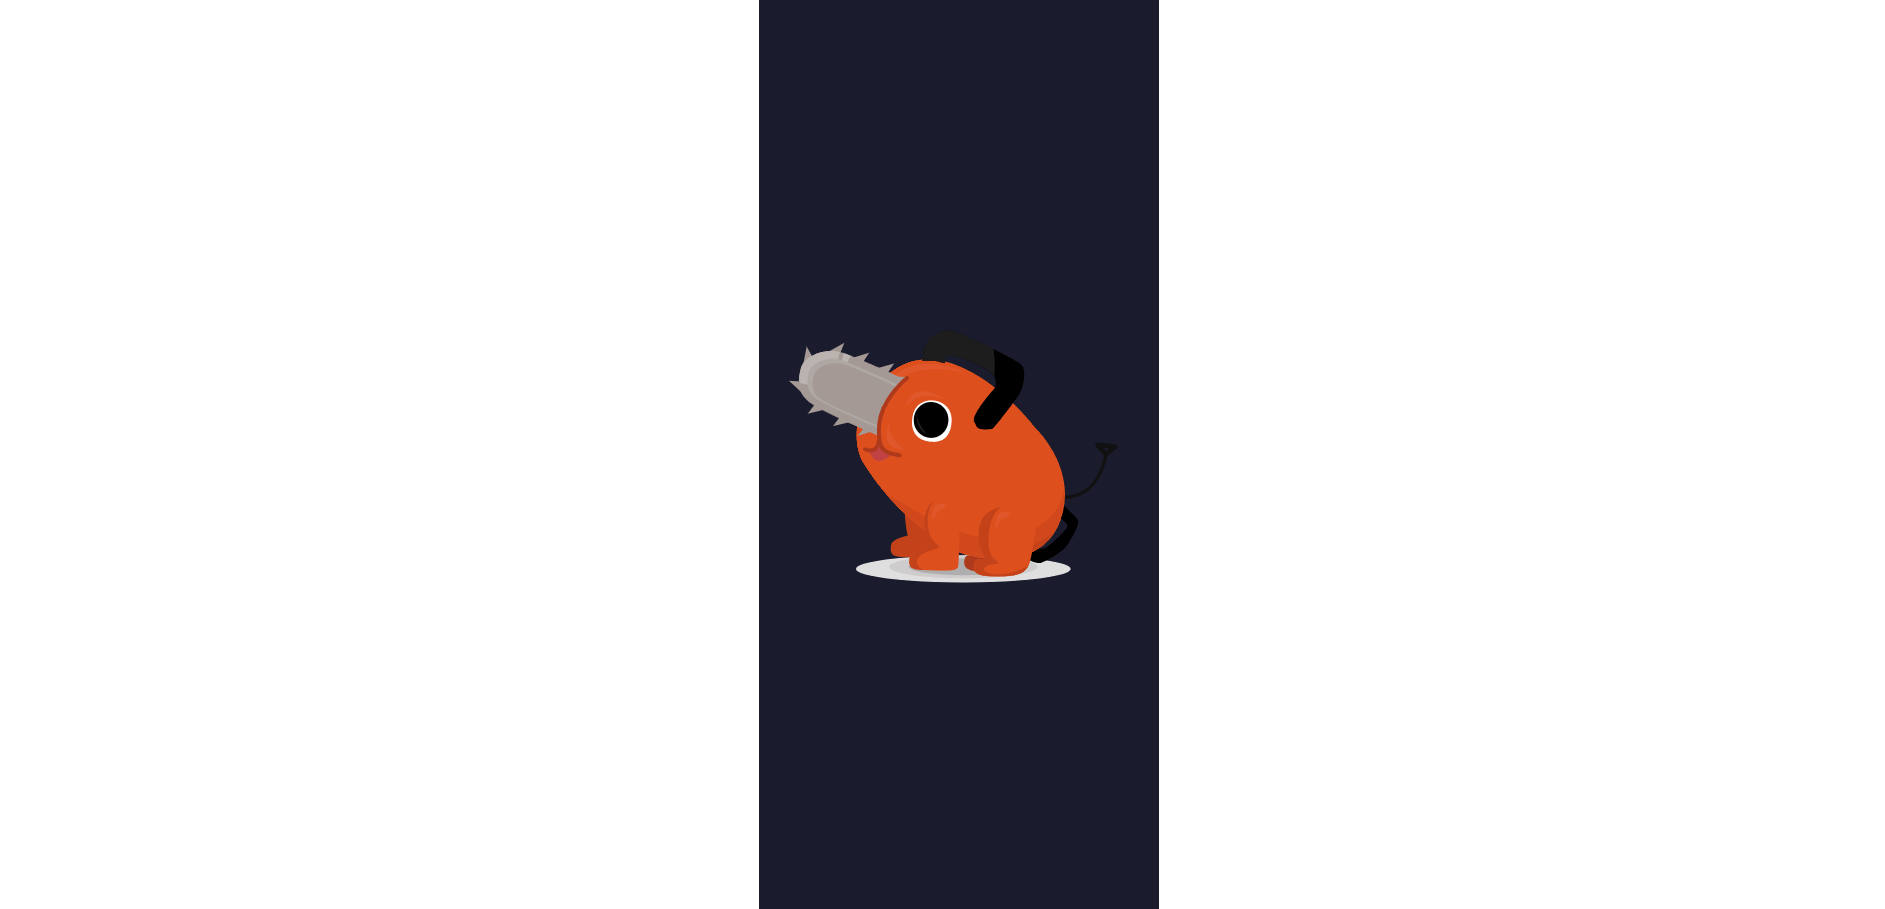
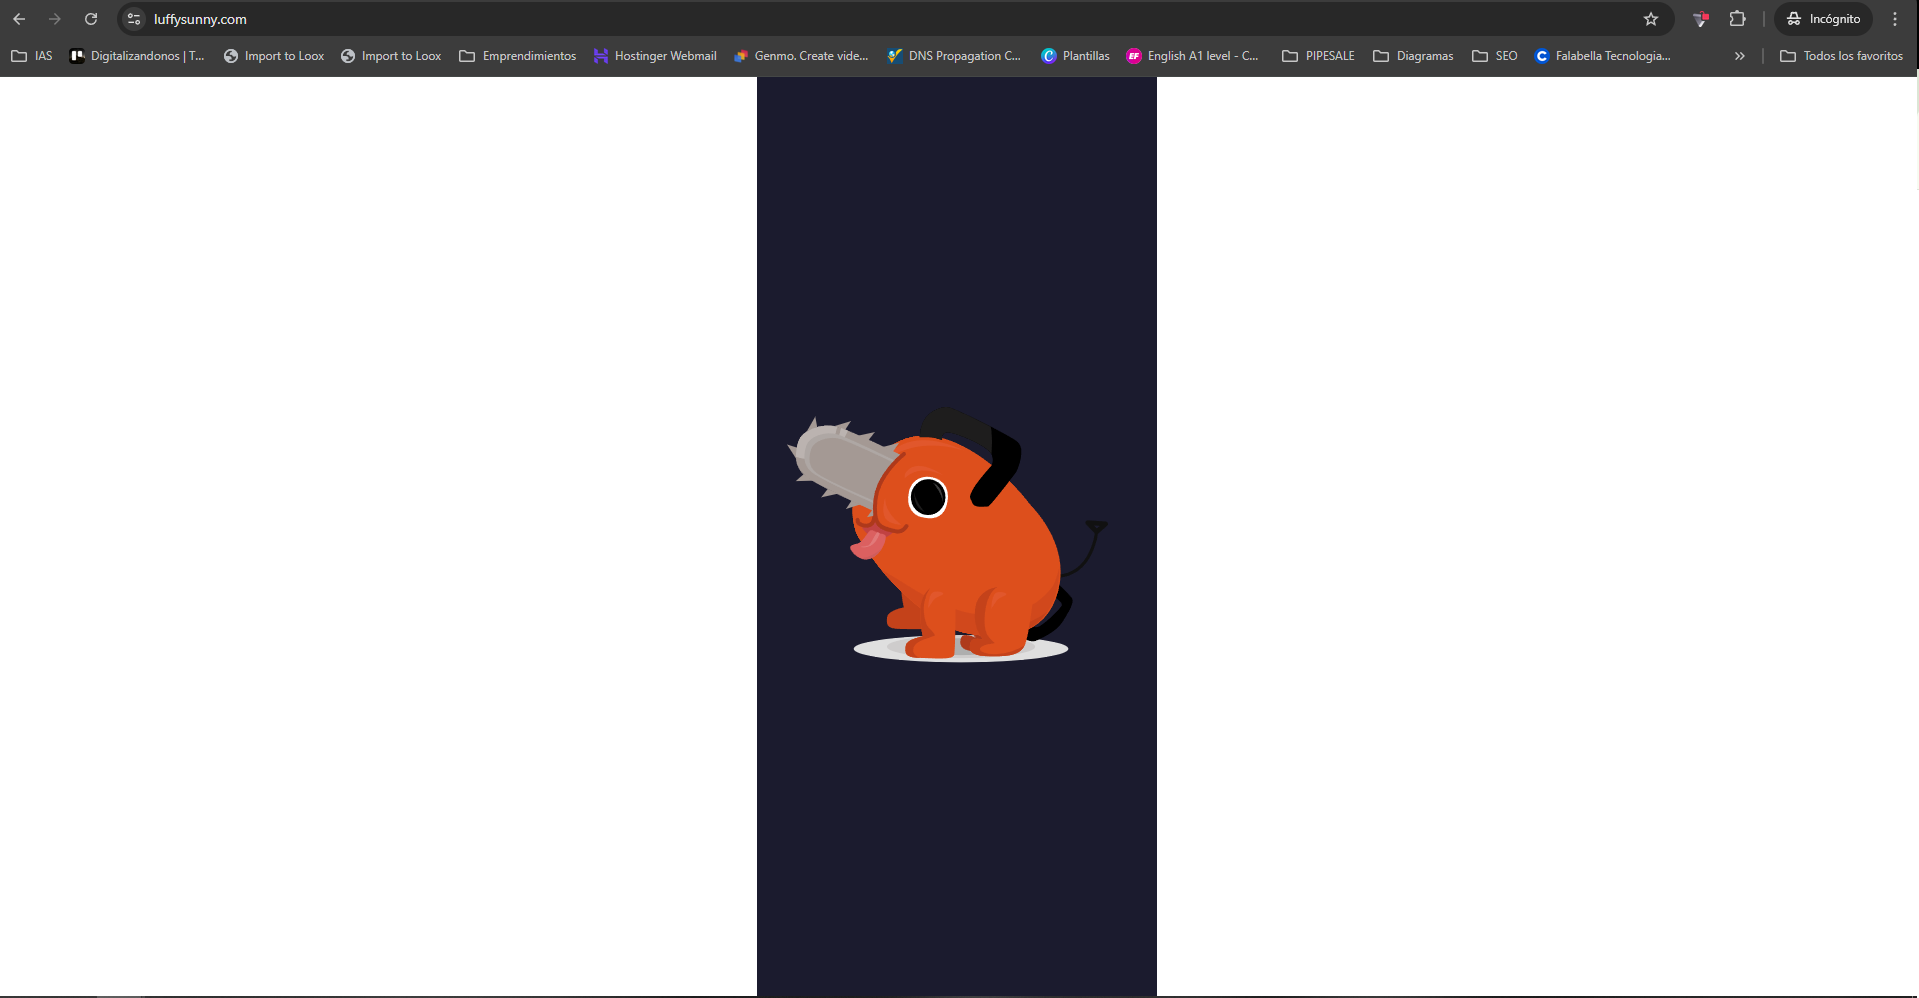
fix: Loading screen now covers the entire page

Changed region(s): [[0.0, 0.0, 1.0, 1.0], [0.4923, 0.9857, 0.5231, 1.0]]

diff --git a/anime-trivia/src/components/LoadingScreen.tsx b/anime-trivia/src/components/LoadingScreen.tsx
@@ -13,7 +13,7 @@ const LoadingScreen = () => {
   };
 
   return (
-    <div style={{ height: '100vh', display: 'flex', justifyContent: 'center', alignItems: 'center', backgroundColor: '#1B1B2E' }}>
+    <div style={{ position: 'fixed', top: 0, left: 0, width: '100%', height: '100%', display: 'flex', justifyContent: 'center', alignItems: 'center', backgroundColor: '#1B1B2E', zIndex: 9999 }}>
       <Lottie options={defaultOptions} height={400} width={400} />
     </div>
   );
